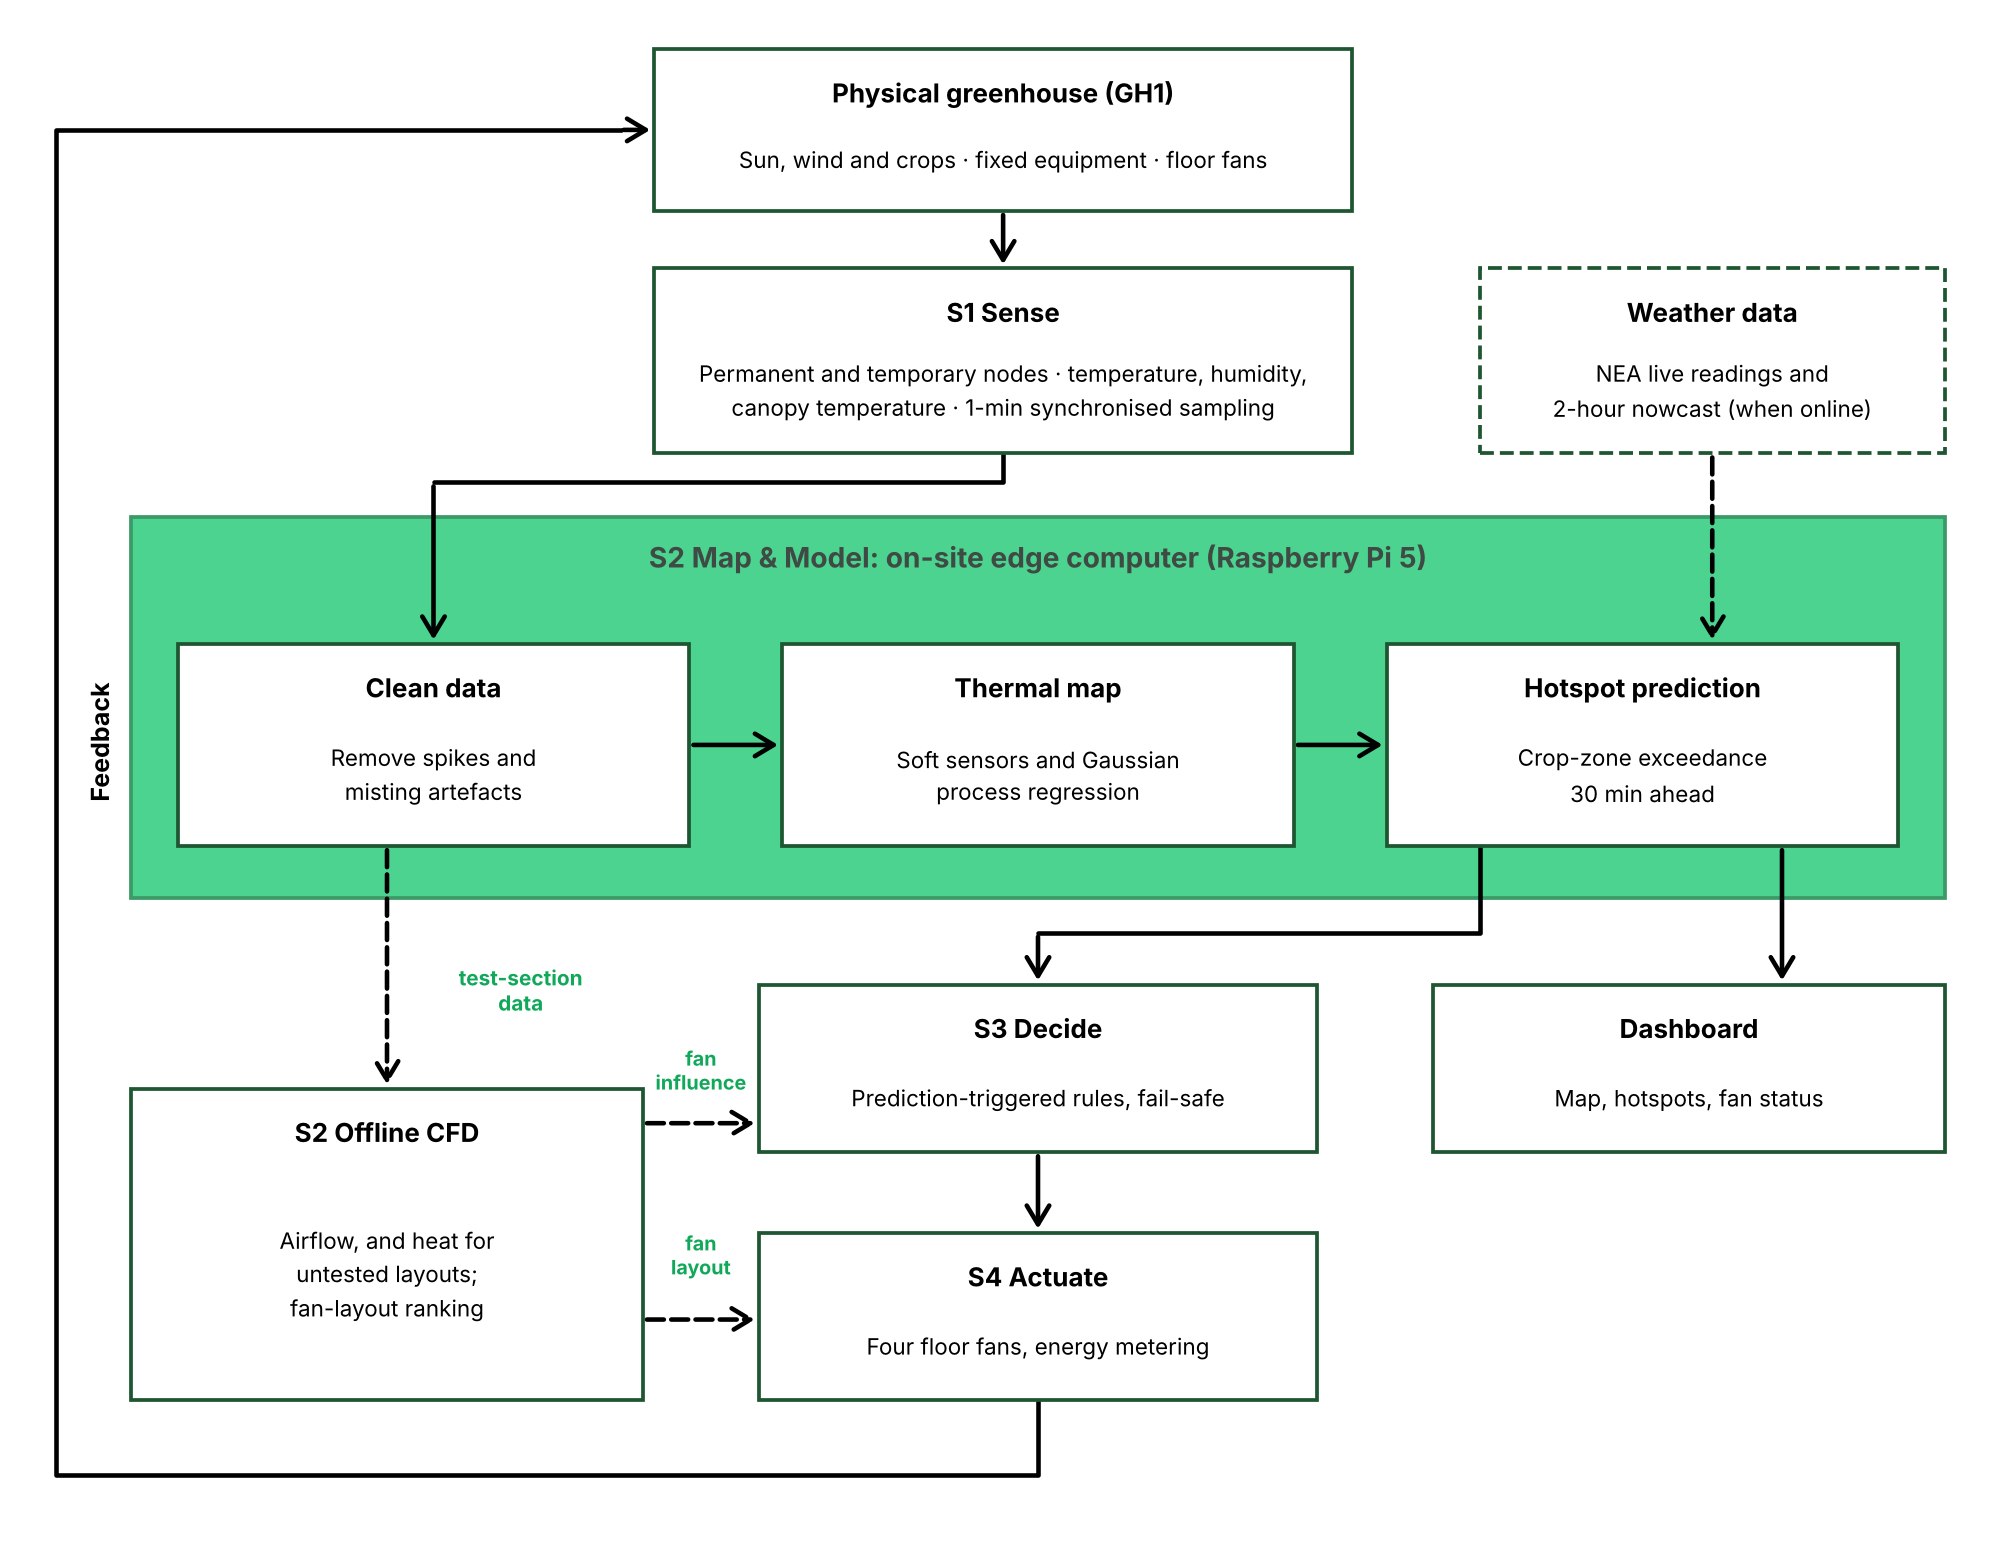
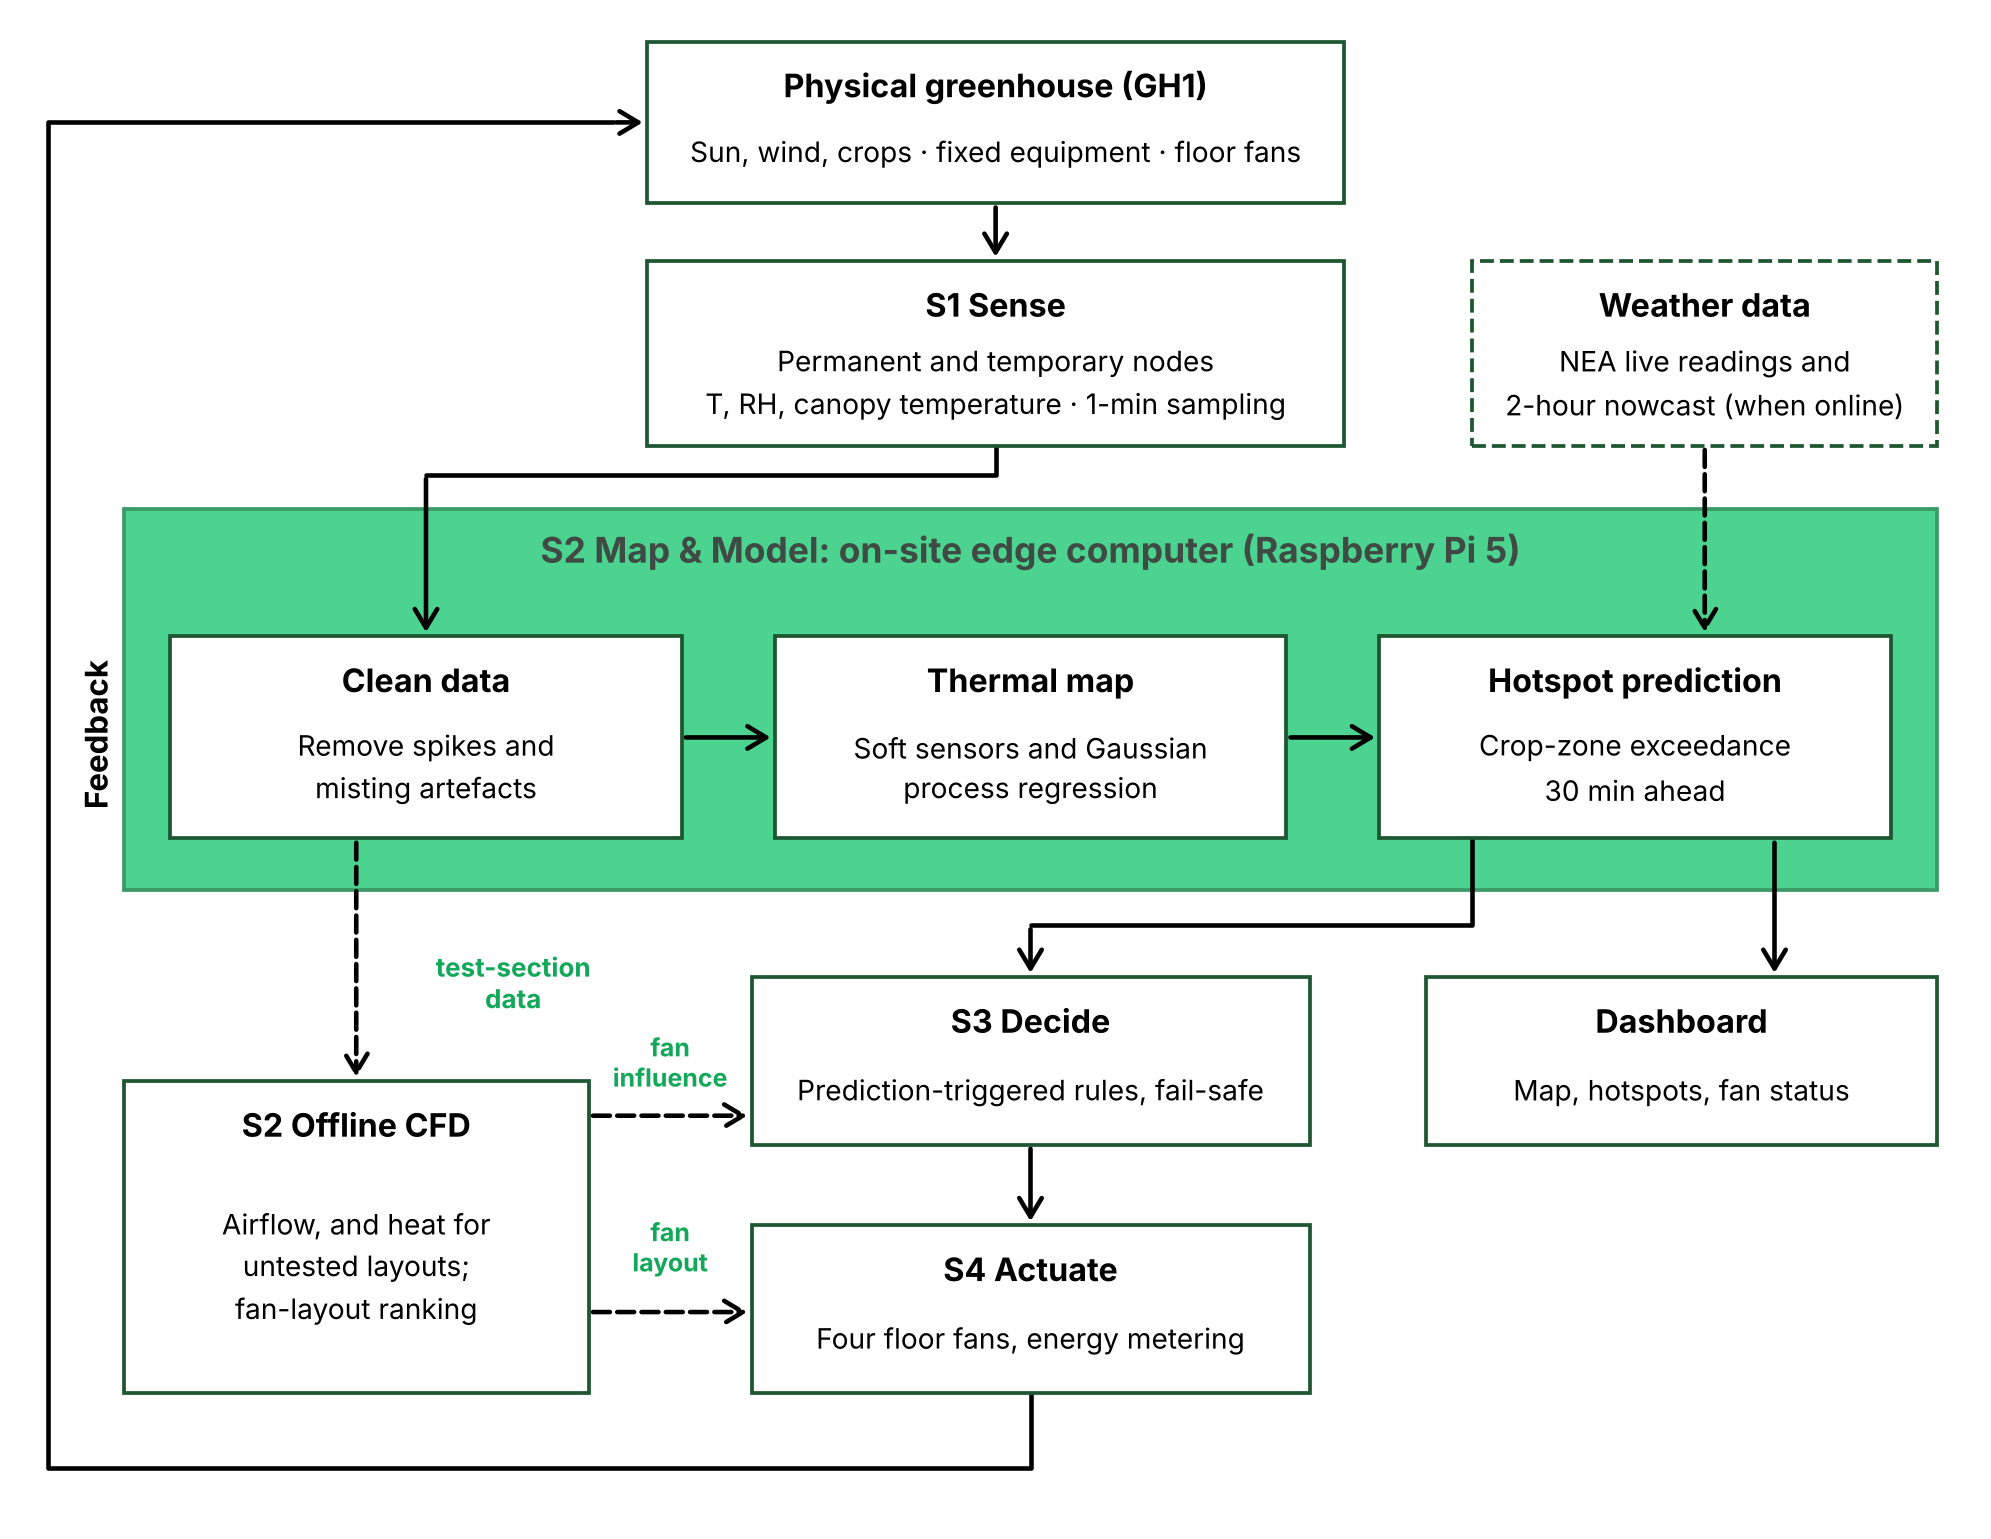
Figure 13: larger fonts, tighter padding
Claude-Session: https://claude.ai/code/session_01DMX67LB1LwVtEXfwtyfhDE

diff --git a/tools/diagrams/report_diagrams.py b/tools/diagrams/report_diagrams.py
@@ -395,7 +395,7 @@ def architecture_v2():
         W, H = 17.0, 13.2
         fig, ax = canvas(W, H)
 
-        def fbox(x, y, w, h, title, body, dashed=False, fill="white", ts=12.5, bs=10.8):
+        def fbox(x, y, w, h, title, body, dashed=False, fill="white", ts=15.5, bs=13.5):
             ax.add_patch(Rectangle((x, y), w, h, fc=fill, ec=DG, lw=1.8, ls="--" if dashed else "-", zorder=3))
             ax.text(x + w / 2, y + h - 0.38, title, ha="center", va="center", fontsize=ts, fontweight="bold", zorder=4)
             ax.text(x + w / 2, y + (h - 0.55) / 2, body, ha="center", va="center", fontsize=bs, zorder=4,
@@ -404,23 +404,23 @@ def architecture_v2():
         def dline(pts, label=None, lpos=None, dashed=False):
             elbow(ax, pts, dashed=dashed)
             if label:
-                ax.text(lpos[0], lpos[1], label, fontsize=10, fontweight="bold", color="#11a85a", ha="center",
+                ax.text(lpos[0], lpos[1], label, fontsize=12.5, fontweight="bold", color="#11a85a", ha="center",
                         va="center", zorder=5, bbox=dict(fc="white", ec="none", pad=1.5))
 
-        fbox(5.5, 11.5, 6.0, 1.4, "Physical greenhouse (GH1)", "Sun, wind and crops · fixed equipment · floor fans")
-        fbox(5.5, 9.4, 6.0, 1.6, "S1 Sense", "Permanent and temporary nodes · temperature, humidity,\ncanopy temperature · 1-min synchronised sampling")
+        fbox(5.5, 11.5, 6.0, 1.4, "Physical greenhouse (GH1)", "Sun, wind, crops · fixed equipment · floor fans")
+        fbox(5.5, 9.4, 6.0, 1.6, "S1 Sense", "Permanent and temporary nodes\nT, RH, canopy temperature · 1-min sampling")
         fbox(12.6, 9.4, 4.0, 1.6, "Weather data", "NEA live readings and\n2-hour nowcast (when online)", dashed=True)
         # S2 live panel
         ax.add_patch(Rectangle((1.0, 5.55), 15.6, 3.3, fc=PANEL, ec=PANEL_EC, lw=1.8, zorder=1))
         ax.text(8.8, 8.5, "S2 Map & Model: on-site edge computer (Raspberry Pi 5)", ha="center", va="center",
-                fontsize=13.5, fontweight="bold", color=PANEL_TXT, zorder=4)
+                fontsize=17, fontweight="bold", color=PANEL_TXT, zorder=4)
         fbox(1.4, 6.0, 4.4, 1.75, "Clean data", "Remove spikes and\nmisting artefacts")
         fbox(6.6, 6.0, 4.4, 1.75, "Thermal map", "Soft sensors and Gaussian\nprocess regression")
         fbox(11.8, 6.0, 4.4, 1.75, "Hotspot prediction", "Crop-zone exceedance\n30 min ahead")
         dline([(5.8, 6.875), (6.6, 6.875)])
         dline([(11.0, 6.875), (11.8, 6.875)])
         # offline CFD, decide, actuate, dashboard
-        fbox(1.0, 1.2, 4.4, 2.7, "S2 Offline CFD", "Airflow, and heat for\nuntested layouts;\nfan-layout ranking")
+        fbox(1.0, 1.2, 4.0, 2.7, "S2 Offline CFD", "Airflow, and heat for\nuntested layouts;\nfan-layout ranking")
         fbox(6.4, 3.35, 4.8, 1.45, "S3 Decide", "Prediction-triggered rules, fail-safe")
         fbox(6.4, 1.2, 4.8, 1.45, "S4 Actuate", "Four floor fans, energy metering")
         fbox(12.2, 3.35, 4.4, 1.45, "Dashboard", "Map, hotspots, fan status")
@@ -431,18 +431,18 @@ def architecture_v2():
         dline([(12.6, 6.0), (12.6, 5.25), (8.8, 5.25), (8.8, 4.8)])
         dline([(15.2, 6.0), (15.2, 4.8)])
         dline([(8.8, 3.35), (8.8, 2.65)])
-        dline([(3.2, 6.0), (3.2, 3.9)], "test-section\ndata", (4.35, 4.75), dashed=True)
-        dline([(5.4, 1.9), (6.4, 1.9)], dashed=True)
-        ax.text(5.9, 2.25, "fan\nlayout", fontsize=9.5, fontweight="bold", color="#11a85a", ha="center", va="bottom")
-        dline([(5.4, 3.6), (6.4, 3.6)], dashed=True)
-        ax.text(5.9, 3.85, "fan\ninfluence", fontsize=9.5, fontweight="bold", color="#11a85a", ha="center", va="bottom")
+        dline([(3.0, 6.0), (3.0, 3.9)], "test-section\ndata", (4.35, 4.75), dashed=True)
+        dline([(5.0, 1.9), (6.4, 1.9)], dashed=True)
+        ax.text(5.7, 2.2, "fan\nlayout", fontsize=12, fontweight="bold", color="#11a85a", ha="center", va="bottom")
+        dline([(5.0, 3.6), (6.4, 3.6)], dashed=True)
+        ax.text(5.7, 3.8, "fan\ninfluence", fontsize=12, fontweight="bold", color="#11a85a", ha="center", va="bottom")
         # feedback loop
         ax.plot([8.8, 8.8, 0.35, 0.35, 5.2], [1.2, 0.55, 0.55, 12.2, 12.2], color="black", lw=2.2, zorder=2)
         ax.add_patch(FancyArrowPatch((5.2, 12.2), (5.5, 12.2), arrowstyle="->,head_length=0.5,head_width=0.3",
                                      mutation_scale=18, color="black", lw=2.2, zorder=2))
-        ax.text(0.6, 6.9, "Feedback", rotation=90, fontsize=12, fontweight="bold", ha="left", va="center")
+        ax.text(0.6, 6.9, "Feedback", rotation=90, fontsize=15, fontweight="bold", ha="left", va="center")
         ax.set_xlim(0, W); ax.set_ylim(0, H)
-        fig.savefig(OUT + "fig-system-architecture.png", dpi=150, bbox_inches="tight", facecolor="white")
+        fig.savefig(OUT + "fig-system-architecture.png", dpi=150, bbox_inches="tight", pad_inches=0.05, facecolor="white")
         plt.close(fig)
 
 problem_framing()
